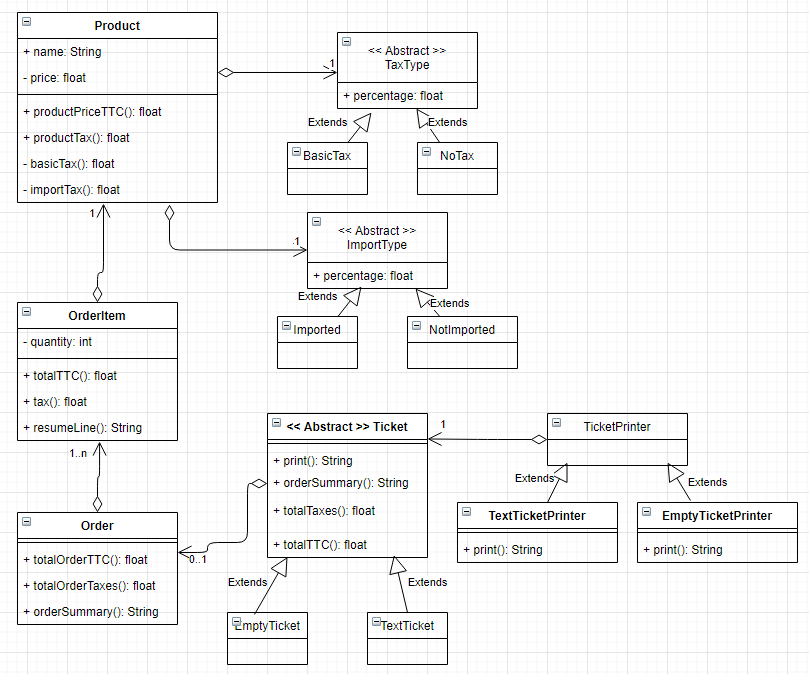
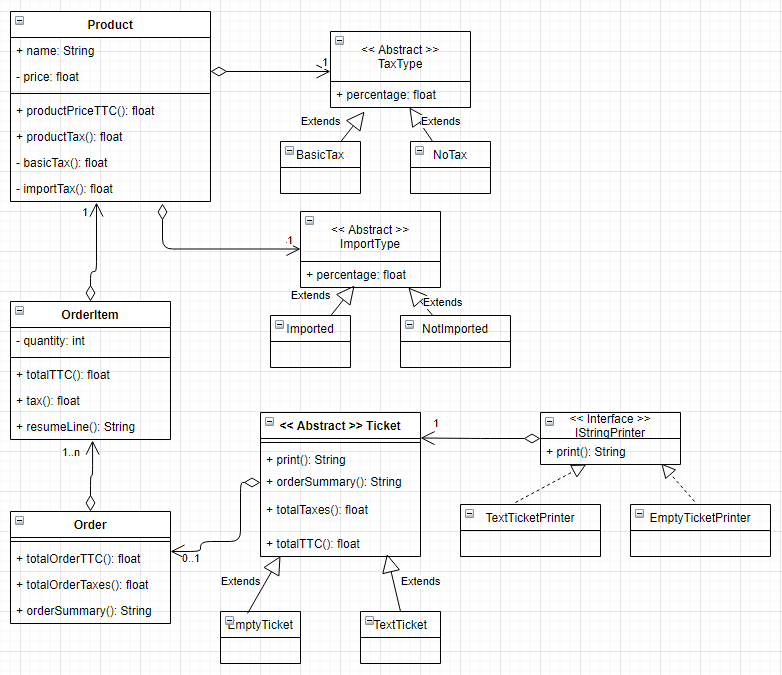
sales: Use Interface instead of Class for TicketPrinter

diff --git a/src/com/sales_taxes_prolem/ticket_printing/EmptyTicketPrinter.kt b/src/com/sales_taxes_prolem/ticket_printing/EmptyTicketPrinter.kt
@@ -2,8 +2,8 @@ package com.sales_taxes_prolem.ticket_printing
 
 import com.sales_taxes_prolem.utils.Format.withTwoDecimalPoint
 
-class EmptyTicketPrinter(ticket: Ticket) : TicketPrinter(ticket) {
-    fun print(): String = """Sales Taxes: ${ticket.totalTaxes().withTwoDecimalPoint()}
+class EmptyTicketPrinter(override val ticket: EmptyTicket) : IStringPrinter {
+    override fun print(): String = """Sales Taxes: ${ticket.totalTaxes().withTwoDecimalPoint()}
                                 |Total: ${ticket.totalTTC().withTwoDecimalPoint()}
                             """.trimMargin()
 }

diff --git a/src/com/sales_taxes_prolem/ticket_printing/TextTicketPrinter.kt b/src/com/sales_taxes_prolem/ticket_printing/TextTicketPrinter.kt
@@ -2,8 +2,8 @@ package com.sales_taxes_prolem.ticket_printing
 
 import com.sales_taxes_prolem.utils.Format.withTwoDecimalPoint
 
-class TextTicketPrinter(ticket: Ticket) : TicketPrinter(ticket) {
-    fun print(): String {
+class TextTicketPrinter(override val ticket: TextTicket) : IStringPrinter {
+    override fun print(): String {
         val output = StringBuilder()
         output.appendLine(ticket.orderSummary())
         output.appendLine("Sales Taxes: ${ticket.totalTaxes().withTwoDecimalPoint()}")

diff --git a/src/com/sales_taxes_prolem/ticket_printing/IStringPrinter.kt b/src/com/sales_taxes_prolem/ticket_printing/IStringPrinter.kt
@@ -1,0 +1,7 @@
+package com.sales_taxes_prolem.ticket_printing
+
+interface IStringPrinter {
+    val ticket: Ticket
+
+    fun print(): String
+}
